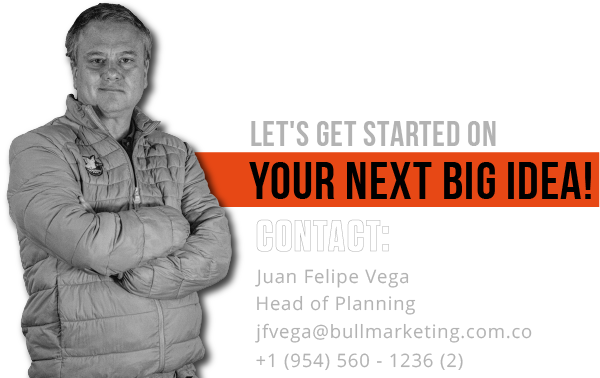
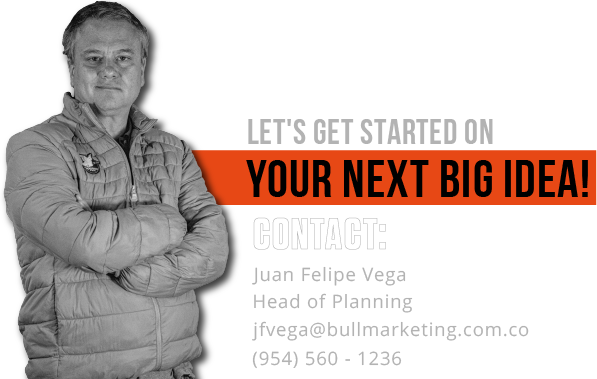
Numero de telefono actualizado

diff --git a/src/components/Contact/Contact.jsx b/src/components/Contact/Contact.jsx
@@ -17,7 +17,7 @@ export const Contact = () => {
                     <p>Juan Felipe Vega</p>
                     <p>jfvega@bullmarketing.com</p>
                     <p>Head of Planning</p>
-                    <p>+1 (954) 560-1236 (2)</p>
+                    <p>(954) 560-1236</p>
                 </div>
             </div>
 
